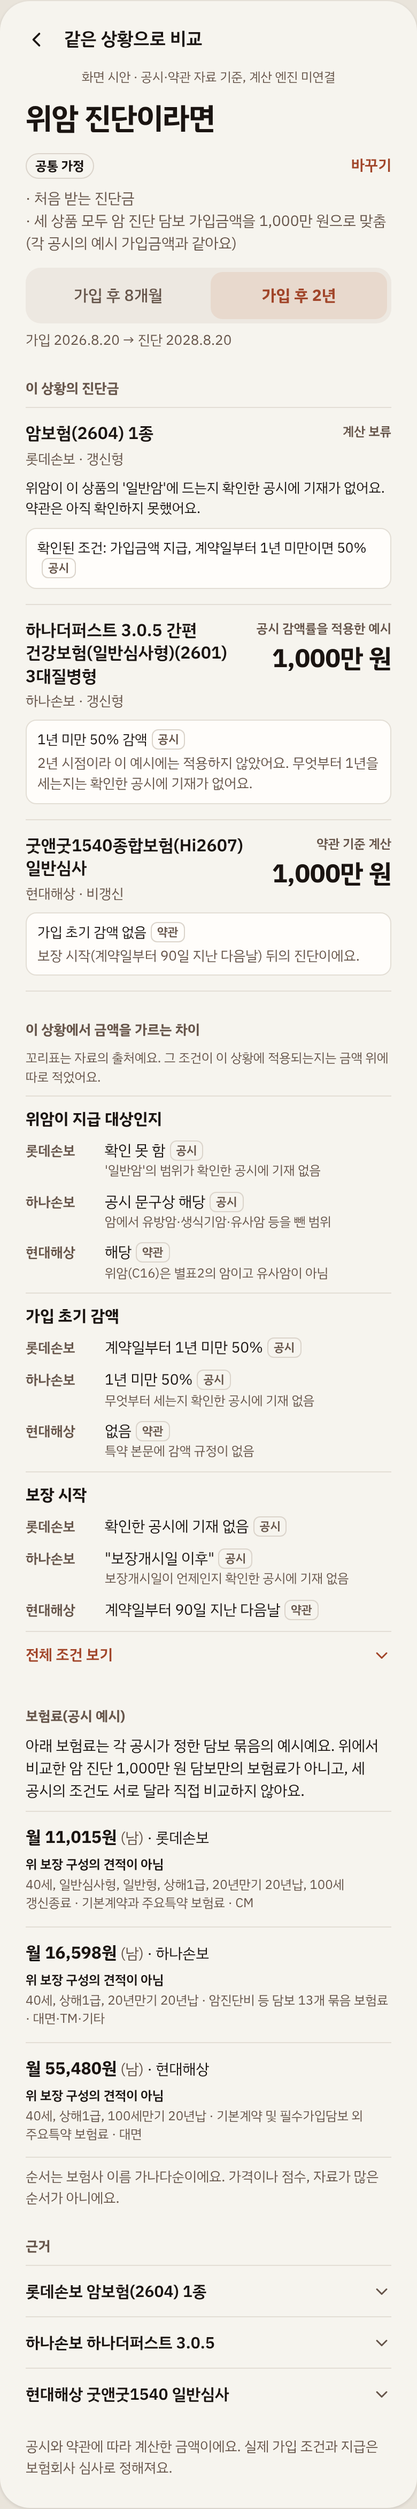
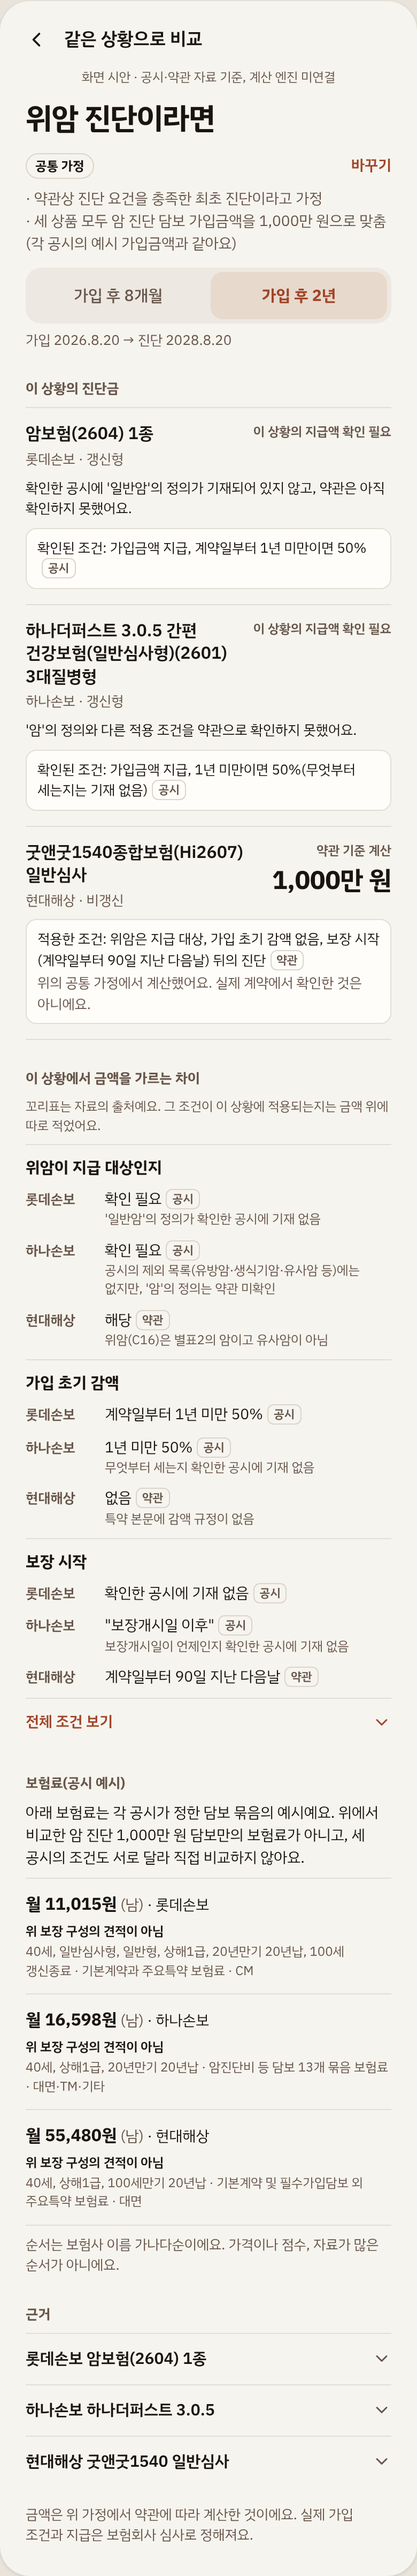
토의 자료: 비교 시안 대표 결과·산술 예시 분리 후 잠정 고정(23차), 미확인 축소 흐름 제안 기록
- 큰 금액 자리는 명시한 가정에 따른 현대해상 약관 기준 계산만, 하나·롯데는 '이 상황의 지급액 확인 필요'
- 하나 500만 원은 근거 속 산술 예시로 이동, 공통 가정에 '약관상 진단 요건을 충족한 최초 진단' 명시
- 검증 42항목 통과
- 공개지식 토의초안 §12: 정보 공백 발견→외부 문의→회신 확보→검수→반영(토의상 제안, 미확정)

Claude-Session: https://claude.ai/code/session_01LaYnzNyNWYGvf2wDAbtvPd

diff --git a/docs/blueprint/proposals/시안_비교/비교_시안.html b/docs/blueprint/proposals/시안_비교/비교_시안.html
@@ -75,7 +75,7 @@
 </head>
 <body>
 <div class="wrap">
-  <p class="page-note"><b>화면 시안입니다.</b> 상품, 담보, 조건, 보험료는 2026-10-10에 받은 손해보험협회 비교공시에서 옮겼습니다. 현대해상은 약관도 함께 확인했습니다. 금액은 손으로 계산했고 계산 엔진에는 연결하지 않았습니다. 상품마다 금액이 어떤 근거로 나왔는지 금액 위에 적었습니다. 시안에서 연결하지 않은 버튼을 누르면 시안이라는 안내가 나옵니다.</p>
+  <p class="page-note"><b>화면 시안입니다.</b> 상품, 담보, 조건, 보험료는 2026-10-10에 받은 손해보험협회 비교공시에서 옮겼습니다. 현대해상은 약관도 함께 확인했습니다. 금액은 손으로 계산했고 계산 엔진에는 연결하지 않았습니다. 큰 금액 자리에는 명시한 가정에서 약관으로 계산한 결과만 올렸고, 공시 문구로 한 산술 예시는 근거 안에 두었습니다. 시안에서 연결하지 않은 버튼을 누르면 시안이라는 안내가 나옵니다.</p>
   <div class="row">
     <div class="screen" id="screen-cmp" data-testid="screen-cmp">
       <div class="top">
@@ -89,7 +89,7 @@
       <div class="assume" data-testid="common">
         <div class="assume-head"><span class="pill">공통 가정</span><button class="link-btn" data-proto>바꾸기</button></div>
         <ul>
-          <li>처음 받는 진단금</li>
+          <li data-testid="common-dx">약관상 진단 요건을 충족한 최초 진단이라고 가정</li>
           <li data-testid="common-amount">세 상품 모두 암 진단 담보 가입금액을 1,000만 원으로 맞춤(각 공시의 예시 가입금액과 같아요)</li>
         </ul>
       </div>
@@ -105,24 +105,25 @@
         <div class="prod" data-prod="lotte">
           <div class="prod-head">
             <div><div class="pname">암보험(2604) 1종</div><div class="pco">롯데손보 · 갱신형</div></div>
-            <div class="pamt"><div class="kind" data-testid="kind-lotte">계산 보류</div></div>
+            <div class="pamt"><div class="kind" data-testid="kind-lotte">이 상황의 지급액 확인 필요</div></div>
           </div>
-          <div class="reason" data-testid="reason-lotte">위암이 이 상품의 '일반암'에 드는지 확인한 공시에 기재가 없어요. 약관은 아직 확인하지 못했어요.</div>
+          <div class="reason" data-testid="reason-lotte">확인한 공시에 '일반암'의 정의가 기재되어 있지 않고, 약관은 아직 확인하지 못했어요.</div>
           <div class="rule">확인된 조건: 가입금액 지급, 계약일부터 1년 미만이면 50%<span class="tag">공시</span></div>
         </div>
         <div class="prod" data-prod="hana">
           <div class="prod-head">
             <div><div class="pname">하나더퍼스트 3.0.5 간편 건강보험(일반심사형)(2601) 3대질병형</div><div class="pco">하나손보 · 갱신형</div></div>
-            <div class="pamt"><div class="kind" data-testid="kind-hana">공시 감액률을 적용한 예시</div><div class="v" data-testid="amt-hana">500만 원</div></div>
+            <div class="pamt"><div class="kind" data-testid="kind-hana">이 상황의 지급액 확인 필요</div></div>
           </div>
-          <div class="rule" data-testid="rule-hana">1년 미만 50% 감액<span class="tag">공시</span><span class="apply" data-testid="apply-hana">8개월 시점이라 이 예시에 적용했어요. 무엇부터 1년을 세는지는 확인한 공시에 기재가 없어요.</span></div>
+          <div class="reason" data-testid="reason-hana">'암'의 정의와 다른 적용 조건을 약관으로 확인하지 못했어요.</div>
+          <div class="rule" data-testid="rule-hana">확인된 조건: 가입금액 지급, 1년 미만이면 50%(무엇부터 세는지는 기재 없음)<span class="tag">공시</span></div>
         </div>
         <div class="prod" data-prod="hd">
           <div class="prod-head">
             <div><div class="pname">굿앤굿1540종합보험(Hi2607) 일반심사</div><div class="pco">현대해상 · 비갱신</div></div>
             <div class="pamt"><div class="kind" data-testid="kind-hd">약관 기준 계산</div><div class="v" data-testid="amt-hd">1,000만 원</div></div>
           </div>
-          <div class="rule" data-testid="rule-hd">가입 초기 감액 없음<span class="tag">약관</span><span class="apply" data-testid="apply-hd">보장 시작(계약일부터 90일 지난 다음날) 뒤의 진단이에요.</span></div>
+          <div class="rule" data-testid="rule-hd">적용한 조건: 위암은 지급 대상, 가입 초기 감액 없음, 보장 시작(계약일부터 90일 지난 다음날) 뒤의 진단<span class="tag">약관</span><span class="apply" data-testid="apply-hd">위의 공통 가정에서 계산했어요. 실제 계약에서 확인한 것은 아니에요.</span></div>
         </div>
       </div>
 
@@ -131,8 +132,8 @@
       <div class="legend" data-testid="legend">꼬리표는 자료의 출처예요. 그 조건이 이 상황에 적용되는지는 금액 위에 따로 적었어요.</div>
       <div data-testid="diff">
         <div class="item" data-item="target"><h3>위암이 지급 대상인지</h3>
-          <div class="cell"><span class="co">롯데손보</span><span class="val">확인 못 함<span class="tag">공시</span><small>'일반암'의 범위가 확인한 공시에 기재 없음</small></span></div>
-          <div class="cell"><span class="co">하나손보</span><span class="val">공시 문구상 해당<span class="tag">공시</span><small>암에서 유방암·생식기암·유사암 등을 뺀 범위</small></span></div>
+          <div class="cell"><span class="co">롯데손보</span><span class="val">확인 필요<span class="tag">공시</span><small>'일반암'의 정의가 확인한 공시에 기재 없음</small></span></div>
+          <div class="cell"><span class="co">하나손보</span><span class="val">확인 필요<span class="tag">공시</span><small>공시의 제외 목록(유방암·생식기암·유사암 등)에는 없지만, '암'의 정의는 약관 미확인</small></span></div>
           <div class="cell"><span class="co">현대해상</span><span class="val">해당<span class="tag">약관</span><small>위암(C16)은 별표2의 암이고 유사암이 아님</small></span></div>
         </div>
         <div class="item" data-item="reduce"><h3>가입 초기 감액</h3>
@@ -187,26 +188,28 @@
         <button class="fold" aria-expanded="false" data-fold="d-lotte">롯데손보 암보험(2604) 1종<svg width="18" height="18" viewBox="0 0 24 24" fill="none" stroke="#66554A" stroke-width="2" stroke-linecap="round" stroke-linejoin="round" aria-hidden="true"><path d="M6 9l6 6 6-6"/></svg></button>
         <dl class="detail" id="d-lotte" hidden>
           <dt>공시 담보</dt><dd>일반암진단비(간편맞춤형Ⅱ)(갱신형): 보험가입금액(1천만원)(단, 계약일로부터 경과기간 1년 미만시 보험가입금액의 50%) · 지급사유 "일반암으로 진단확정된 경우"</dd>
-          <dt>계산을 보류한 이유</dt><dd>지급사유의 '일반암'이 어떤 암을 말하는지 확인한 공시에 기재가 없어요. 그래서 위암이 지급 대상인지 판단할 수 없었어요.</dd>
+          <dt>지급액을 확인 필요로 둔 이유</dt><dd>지급사유의 '일반암'이 어떤 암을 말하는지 확인한 공시에 기재가 없어요. 그래서 위암이 지급 대상인지 판단할 수 없었어요.</dd>
           <dt>확인하지 못한 것</dt><dd>'일반암'의 범위, 보장 시작일, 지급 횟수. 약관을 확보하지 못했어요. 공시의 보험료 조건은 "일반심사형"인데 담보명에는 "간편맞춤형Ⅱ"가 붙어 있어요.</dd>
           <dt>출처</dt><dd>손해보험협회 비교공시 PB22, 공시행 N03PB223229, 요약서 SEQ 91797, 2026-10-10 수집</dd>
         </dl>
         <button class="fold" aria-expanded="false" data-fold="d-hana">하나손보 하나더퍼스트 3.0.5<svg width="18" height="18" viewBox="0 0 24 24" fill="none" stroke="#66554A" stroke-width="2" stroke-linecap="round" stroke-linejoin="round" aria-hidden="true"><path d="M6 9l6 6 6-6"/></svg></button>
         <dl class="detail" id="d-hana" hidden>
           <dt>공시 담보</dt><dd>암진단비(유방암및생식기암제외)(갱신형): 1천만원(최초 1회한, 1년미만 50%) · 지급사유 "보장개시일 이후에 암(유방암및생식기암제외)로 진단확정된 경우. 유방및생식기암, 기타피부암, 갑상선암, 제자리암, 경계성종양은 보장하지않음"</dd>
-          <dt>예시로 표시한 이유</dt><dd>공시 문구로는 위암이 지급 대상에 들어요. 하지만 '암'의 정의, 보장개시일, 1년을 세는 기준일은 약관을 확보하지 못해 확인하지 않았어요. 그래서 공시의 '1년미만 50%'를 산술로 적용한 예시로 표시했어요.</dd>
+          <dt>지급액을 확인 필요로 둔 이유</dt><dd>공시의 제외 목록에 위암이 없다는 것만으로는 지급 대상이라고 확인할 수 없어요. '암'의 정의, 보장개시일, 1년을 세는 기준일 같은 적용 조건은 약관을 확보하지 못해 확인하지 않았어요.</dd>
+          <dt>산술 예시</dt><dd data-testid="arith-hana">가입금액 1,000만 원에 공시된 감액률 50%를 적용하면 500만 원입니다. 이 위암 상황에 해당 규칙이 적용되는지는 아직 확인하지 못했습니다.</dd>
           <dt>출처</dt><dd>손해보험협회 비교공시 PB15, 공시행 N17PB150844, 요약서 SEQ 91339, 2026-10-10 수집</dd>
         </dl>
         <button class="fold" aria-expanded="false" data-fold="d-hd">현대해상 굿앤굿1540 일반심사<svg width="18" height="18" viewBox="0 0 24 24" fill="none" stroke="#66554A" stroke-width="2" stroke-linecap="round" stroke-linejoin="round" aria-hidden="true"><path d="M6 9l6 6 6-6"/></svg></button>
         <dl class="detail" id="d-hd" hidden>
           <dt>공시 담보</dt><dd>암진단II(유사암제외) 1000만원 · 지급사유 "보장개시일 이후 암(유사암 제외)으로 진단확정된 경우"</dd>
+          <dt>계산 전제(가정)</dt><dd>약관상 진단 요건을 충족한 최초 진단, 공통 가정의 가입금액 1,000만 원. 실제 계약에서 확인한 사실이 아니에요.</dd>
           <dt>약관으로 확인한 적용</dt><dd>지급금액: 2-5 암진단Ⅱ(유사암제외)보장 특별약관 제1조. 최초 1회에 한해 "이 특약의 보험가입금액"을 지급하고, 금액을 줄이는 문구가 없어요(약관 305쪽).<br>지급 대상: 제2조①의 '암'은 별표2 악성신생물 분류표의 질병이고, 소화기관(C15~C26)에 위암(C16)이 들어 있어요(1223쪽). 유사암(C44·C73·제자리암·경계성종양)에는 해당하지 않아요.<br>보장 시작: 제3조①, 계약일부터 그 날을 포함해 90일이 지난 다음날.<br>감액: 특약 본문(305~306쪽)과 보통약관(125~154쪽)에 진단금을 줄이는 규정이 없어요. 상품안내 지급제한표(117쪽)에서도 이 특약의 '1년미만 보험금 감액여부'는 '-'예요. 같은 표의 다른 담보에는 50% 같은 비율이 적혀 있어요.</dd>
-          <dt>확인하지 못한 것</dt><dd>진단이 병리 검사 같은 진단확정 요건(제2조⑦)을 갖췄는지, 계약 전 알릴 의무 같은 실제 계약의 사정</dd>
+          <dt>가정으로 둔 것</dt><dd>진단이 병리 검사 같은 진단확정 요건(제2조⑦)을 갖췄는지, 계약 전 알릴 의무 같은 실제 계약의 사정은 확인하지 않고 가정으로 두었어요.</dd>
           <dt>출처</dt><dd>비교공시 PB14, 공시행 N09PB144456, 2026-10-10 수집 · 약관 sha256 9401e98e…, 사업방법서 sha256 272917da…</dd>
         </dl>
       </div>
 
-      <div class="general">공시와 약관에 따라 계산한 금액이에요. 실제 가입 조건과 지급은 보험회사 심사로 정해져요.</div>
+      <div class="general">금액은 위 가정에서 약관에 따라 계산한 것이에요. 실제 가입 조건과 지급은 보험회사 심사로 정해져요.</div>
       <div class="toast" role="status" aria-live="polite" hidden data-toast></div>
     </div>
   </div>
@@ -214,18 +217,14 @@
 <script>
 (function () {
   var data = {
-    '8m': { dates: '가입 2026.8.20 → 진단 2027.4.20', hana: '500만 원',
-            hanaApply: '8개월 시점이라 이 예시에 적용했어요. 무엇부터 1년을 세는지는 확인한 공시에 기재가 없어요.' },
-    '2y': { dates: '가입 2026.8.20 → 진단 2028.8.20', hana: '1,000만 원',
-            hanaApply: '2년 시점이라 이 예시에는 적용하지 않았어요. 무엇부터 1년을 세는지는 확인한 공시에 기재가 없어요.' }
+    '8m': { dates: '가입 2026.8.20 → 진단 2027.4.20' },
+    '2y': { dates: '가입 2026.8.20 → 진단 2028.8.20' }
   };
   var segs = document.querySelectorAll('[data-elapsed]');
   function render(k) {
     var d = data[k];
     segs.forEach(function (b) { b.setAttribute('aria-pressed', String(b.getAttribute('data-elapsed') === k)); });
     document.getElementById('dates').textContent = d.dates;
-    document.querySelector('[data-testid="amt-hana"]').textContent = d.hana;
-    document.querySelector('[data-testid="apply-hana"]').textContent = d.hanaApply;
   }
   segs.forEach(function (b) { b.addEventListener('click', function () { render(b.getAttribute('data-elapsed')); }); });
   document.querySelectorAll('[data-fold]').forEach(function (btn) {

diff --git a/docs/blueprint/proposals/시안_비교/검증/run.js b/docs/blueprint/proposals/시안_비교/검증/run.js
@@ -41,12 +41,14 @@ function check(name, cond, detail) { log.push((cond ? 'PASS ' : 'FAIL ') + name 
   // 상품별 금액 또는 이유가 같은 자리(오른쪽 위)에 있는지
   const pos = await page.evaluate(() => [...document.querySelectorAll('.prod')].map(p => { const r = p.getBoundingClientRect(), a = p.querySelector('.pamt').getBoundingClientRect(); return [Math.round(a.right - r.right), Math.round(a.top - r.top)]; }));
   check('세 상품 모두 금액·이유가 같은 자리(오른쪽 위)', pos.length === 3 && pos.every(p => p[0] === pos[0][0] && p[1] === pos[0][1]), JSON.stringify(pos));
-  check('금액 위 근거 종류: 보류 / 공시 감액률 예시 / 약관 기준 계산', (await txt('[data-testid="kind-lotte"]')) === '계산 보류' && (await txt('[data-testid="kind-hana"]')) === '공시 감액률을 적용한 예시' && (await txt('[data-testid="kind-hd"]')) === '약관 기준 계산');
-  check('금액: 하나 500만 원, 현대 1,000만 원, 롯데는 숫자 없음', (await txt('[data-testid="amt-hana"]')) === '500만 원' && (await txt('[data-testid="amt-hd"]')) === '1,000만 원' && (await page.locator('[data-prod="lotte"] .v').count()) === 0);
-  check('계산 보류 상품: 이유와 확인된 조건 표시', (await txt('[data-testid="reason-lotte"]')).includes('기재가 없어요') && (await page.locator('[data-prod="lotte"] .rule').innerText()).includes('확인된 조건'));
-  check('계산 보류 표시는 다른 근거 표시와 같은 색(강조색 아님)', await page.evaluate(() => { const c = s => getComputedStyle(document.querySelector(s)).color; return c('[data-testid="kind-lotte"]') === c('[data-testid="kind-hd"]') && c('[data-testid="kind-lotte"]') === 'rgb(102, 85, 74)'; }));
+  check('대표 결과: 롯데·하나는 지급액 확인 필요, 현대는 약관 기준 계산', (await txt('[data-testid="kind-lotte"]')) === '이 상황의 지급액 확인 필요' && (await txt('[data-testid="kind-hana"]')) === '이 상황의 지급액 확인 필요' && (await txt('[data-testid="kind-hd"]')) === '약관 기준 계산');
+  check('큰 금액 자리에는 현대해상 1,000만 원만', (await page.locator('[data-prod] .pamt .v').count()) === 1 && (await txt('[data-testid="amt-hd"]')) === '1,000만 원');
+  check('하나 500만 원은 첫 화면 어디에도 없음(근거 안 산술 예시로만)', !(await page.locator('#screen-cmp').innerText()).includes('500만 원'));
+  check('확인 필요 상품: 이유와 확인된 공시 조건', (await txt('[data-testid="reason-lotte"]')).includes('정의가 기재되어 있지 않고') && (await txt('[data-testid="reason-hana"]')).includes('약관으로 확인하지 못했어요') && (await page.locator('[data-prod="lotte"] .rule').innerText()).includes('확인된 조건') && (await txt('[data-testid="rule-hana"]')).includes('1년 미만이면 50%'));
+  check('확인 필요 표시는 계산 표시와 같은 색(강조색 아님)', await page.evaluate(() => { const c = s => getComputedStyle(document.querySelector(s)).color; return c('[data-testid="kind-lotte"]') === c('[data-testid="kind-hd"]') && c('[data-testid="kind-hana"]') === c('[data-testid="kind-hd"]') && c('[data-testid="kind-lotte"]') === 'rgb(102, 85, 74)'; }));
+  check('공통 가정: 약관상 진단 요건을 충족한 최초 진단', (await txt('[data-testid="common-dx"]')) === '약관상 진단 요건을 충족한 최초 진단이라고 가정');
+  check('현대 계산에 적용 조건과 "실제 계약에서 확인한 것은 아님"', (await txt('[data-testid="rule-hd"]')).startsWith('적용한 조건') && (await txt('[data-testid="apply-hd"]')).includes('실제 계약에서 확인한 것은 아니에요'));
   check('공통 가정에 가입금액 1,000만 원 맞춤 명시', (await txt('[data-testid="common-amount"]')).includes('가입금액을 1,000만 원으로 맞춤'));
-  check('결과를 바꾸는 조건이 금액 바로 아래', (await vis('[data-testid="rule-hana"]')) && (await vis('[data-testid="rule-hd"]')));
 
   const all = await page.locator('#screen-cmp').innerText();
   check('"최저가"·"추천" 같은 표시 없음', !/최저가|가장 싼|저렴|추천|1위/.test(all));
@@ -68,14 +70,13 @@ function check(name, cond, detail) { log.push((cond ? 'PASS ' : 'FAIL ') + name 
   await page.click('[data-elapsed="2y"]');
   check('2년: 버튼 상태', (await page.getAttribute('[data-elapsed="2y"]', 'aria-pressed')) === 'true' && (await page.getAttribute('[data-elapsed="8m"]', 'aria-pressed')) === 'false');
   check('2년: 진단일 2028.8.20', (await txt('#dates')).includes('2028.8.20'));
-  check('2년: 하나손보 1,000만 원', (await txt('[data-testid="amt-hana"]')) === '1,000만 원');
-  check('2년: 감액 규칙은 남고 적용만 바뀜', (await vis('[data-testid="rule-hana"]')) && (await txt('[data-testid="rule-hana"]')).startsWith('1년 미만 50% 감액') && (await txt('[data-testid="apply-hana"]')).includes('적용하지 않았어요'));
-  check('2년: 근거 종류 표시 그대로', (await txt('[data-testid="kind-hana"]')) === '공시 감액률을 적용한 예시' && (await txt('[data-testid="kind-lotte"]')) === '계산 보류');
+  check('2년: 결과 표시는 그대로(확인 필요 상품에 금액이 생기지 않음)', (await page.locator('[data-prod] .pamt .v').count()) === 1 && (await txt('[data-testid="kind-hana"]')) === '이 상황의 지급액 확인 필요');
+  check('2년: 하나 감액 조건은 그대로 보임', (await vis('[data-testid="rule-hana"]')) && (await txt('[data-testid="rule-hana"]')).includes('1년 미만이면 50%'));
   check('2년: 현대해상 그대로 1,000만 원', (await txt('[data-testid="amt-hd"]')) === '1,000만 원');
   await layout('2년');
   await shot('02_비교_2년.png');
   await page.click('[data-elapsed="8m"]');
-  check('8개월로 되돌림: 500만 원, 적용 문구 복귀', (await txt('[data-testid="amt-hana"]')) === '500만 원' && (await txt('[data-testid="apply-hana"]')).includes('적용했어요') && !(await txt('[data-testid="apply-hana"]')).includes('않았어요'));
+  check('8개월로 되돌림: 진단일 복귀', (await txt('#dates')).includes('2027.4.20'));
 
   // 근거 펼침
   for (const id of ['d-more', 'd-lotte', 'd-hana', 'd-hd']) {
@@ -83,6 +84,8 @@ function check(name, cond, detail) { log.push((cond ? 'PASS ' : 'FAIL ') + name 
     check(id + ' 펼침', (await vis('#' + id)) && (await page.getAttribute('[data-fold="' + id + '"]', 'aria-expanded')) === 'true');
   }
   check('전체 조건: 갱신·따로 보는 암·지급 횟수', (await page.locator('#d-more [data-item]').count()) === 3);
+  check('하나 근거 속 산술 예시 문장', (await txt('[data-testid="arith-hana"]')) === '가입금액 1,000만 원에 공시된 감액률 50%를 적용하면 500만 원입니다. 이 위암 상황에 해당 규칙이 적용되는지는 아직 확인하지 못했습니다.');
+  check('현대 근거에 계산 전제(가정)', (await page.locator('#d-hd dt', { hasText: '계산 전제(가정)' }).count()) === 1);
   check('근거마다 출처 있음', (await page.locator('.detail dt', { hasText: '출처' }).count()) === 3);
   await layout('근거 펼침');
   await page.click('[data-fold="d-lotte"]'); await page.click('[data-fold="d-hana"]');
@@ -93,11 +96,11 @@ function check(name, cond, detail) { log.push((cond ? 'PASS ' : 'FAIL ') + name 
   // 시안 전용 버튼
   const protos = await page.locator('[data-proto]').all(); let ok = 0;
   for (const el of protos) {
-    const before = await page.evaluate(() => [location.href, document.querySelector('[data-testid="amt-hana"]').textContent]);
+    const before = await page.evaluate(() => [location.href, document.getElementById('dates').textContent]);
     await el.click();
     const t = page.locator('[data-toast]');
     const shown = (await t.isVisible()) && (await t.innerText()) === '화면 시안이라 아직 연결되지 않았어요.';
-    const after = await page.evaluate(() => [location.href, document.querySelector('[data-testid="amt-hana"]').textContent]);
+    const after = await page.evaluate(() => [location.href, document.getElementById('dates').textContent]);
     if (shown && JSON.stringify(before) === JSON.stringify(after)) ok++;
   }
   check('시안 전용 버튼 ' + protos.length + '개: 누르면 시안 안내, 상태·주소 변화 없음', ok === protos.length, ok + '/' + protos.length);

diff --git a/docs/blueprint/proposals/공개지식_모델_토의초안.md b/docs/blueprint/proposals/공개지식_모델_토의초안.md
@@ -457,3 +457,68 @@ flowchart LR
 - 공개 자료 조사와 원본 영속 보존(R2) 권한은 한 승인으로 묶지 않는다.
 - 결과: [H 그룹 조사](../../research/2026-10-10_source_survey/H_1540_사업방법서.md), [가입 구성 검증 사례](가입구성_사례_굿앤굿1540.md) 12차 판.
 - 그다음 공개 지식 모델 1차 토의를 정리하고, 개인 계약이 이 구성 중 무엇을 실제로 선택·적용받았는지 표현하는 모델(묶음 2)로 넘어간다.
+
+## 12. 23차 토의: 미확인을 줄이는 흐름 (토의상 제안·사용자, 미확정)
+
+### 12.1 토의상 제안(사용자)
+
+온전은 "미확인을 어떻게 표시할까"에서 멈추지 않고, 미확인을 줄여 나가는 시스템이어야 한다. 구조에 **정보 공백 발견 → 외부 문의 → 회신 확보 → 검수 → 반영**을 추가한다.
+
+1. **빠진 정보를 특정한다.** "이 상품 설명해 주세요"처럼 묻지 않는다. 상품, 판매 시기(판), 특약을 지정하고 다음처럼 묻는다. "이 판의 암 정의에 위암 C16이 포함되는지, 근거 조항은 어디인지."
+2. **AI가 문의를 작성해 공식 창구로 보낸다.**
+   - 확인할 수 있는 창구(보험사 공시 담당, 상품 담당 등)를 관리한다.
+   - 질문과 관련 자료를 한데 묶어 보낸다.
+   - 초기에는 사람이 발송 내용을 검토한다. 반복되는 문의는 정해진 범위 안에서 자동화할 수 있다.
+3. **회신과 첨부자료를 근거로 보존한다.**
+   - 누가, 언제, 어떤 상품·판에 대해 답했는지 남긴다.
+   - 그 답으로 정확히 무엇을 확인했는지 남긴다.
+   - 가능하면 답변뿐 아니라 약관·사업방법서 같은 근거 문서도 요청한다.
+4. **검수한 뒤 지식과 화면을 갱신한다.**
+   - 답변이 질문에 충분히 답하는지, 기존 약관과 충돌하지 않는지 확인한다.
+   - 충돌하면 한쪽으로 덮어쓰지 않고 다시 문의한다.
+
+**구분해야 할 것**
+- 담당자의 이메일 답변은 약관 변경도, 특정인에 대한 지급 보증도 아니다. **'공식 회신으로 확인한 상품 설명'과 '개별 계약의 실제 심사 결과'는 따로 다룬다.**
+- **공개 상품 문의**는 공통 지식 쪽에서 한 번 해결해 여러 사용자가 다시 쓴다.
+- **개인 계약 문의**는 비공개 개인 영역에서 처리한다. 사용자 동의를 받고 필요한 정보만 보내는 별도 경로를 둔다.
+- 화면은 "모릅니다"에서 끝나지 않고 **"공개 자료에서 확인되지 않아 보험사에 확인 중입니다"**로 이어진다. 단, 이 문구는 실제로 문의를 보냈을 때만 쓴다.
+
+### 12.2 검토 의견(구현자)
+
+**1. '미확보'와 '공개 자료에 없음'은 다른 공백이다.**
+- 비교 시안에서 하나손보와 롯데손보의 공백은 아직 **약관 원문을 받지 않은 것**이다. 공개 자료에 정말 없는 것으로 확인된 게 아니다.
+- 그래서 문의보다 먼저 공개 원문 수집(보험사 상품공시실의 약관·사업방법서)이 와야 한다고 본다.
+- 순서로는 이렇다.
+  1. 공개 원문을 수집한다.
+  2. 그래도 비어 있거나 원문끼리 충돌하면 문의한다.
+- 이렇게 하면 문의 수가 줄고, 답변도 원문 조항을 가리키게 하기 쉽다.
+
+**2. 공백 항목 하나의 상태(초안).**
+- 아직 찾지 않음
+- 공개 원문에서 찾는 중
+- 공개 자료에서 확인되지 않음(찾은 범위를 기록)
+- 문의 발송됨(발송일, 창구)
+- 회신 받음·검수 중
+- 회신으로 확인(범위 한정)
+- 충돌·재문의
+
+화면 문구는 이 상태에서만 만든다. 예를 들어 "확인 중"은 '문의 발송됨' 이후에만 쓴다.
+
+**3. 회신을 근거로 남길 때의 형태(초안).**
+- 질문 원문, 지정한 상품·판·특약
+- 답한 창구와 담당 부서, 받은 날
+- 답변 원문과 첨부 문서의 해시
+- 그 답이 확인한 범위: 무엇을 확인했고, 무엇은 확인하지 않았는지
+- 근거 등급: 기존 약관 원문과 같은 등급으로 둘지, '공식 회신'이라는 별도 등급으로 둘지는 토의가 필요하다. 지금 생각으로는, 회신이 약관 조항을 가리키면 그 조항 원문을 확보해 약관 근거로 연결한다. 회신만 있으면 '공식 회신' 등급으로 둔다.
+
+**4. 외부로 보내는 일이라 정해야 할 것.**
+- 보내는 사람을 어떻게 밝힐지(온전 명의로, AI가 작성했음을 표시할지)
+- 고객을 가장하지 않을 것
+- 발송 승인은 누가 할지
+- 반복 문의 자동화의 범위와 중단 조건
+
+이번 토의 범위에서는 실제 문의를 보내지 않았다. 창구 목록도 만들지 않았다. 확인하지 않은 연락처를 적어 두지 않기 위해서다.
+
+**5. 비교 시안과의 관계.**
+- 지금 시안의 "이 상황의 지급액 확인 필요"와 "약관은 아직 확인하지 못했어요"는 '아직 찾지 않음' 상태와 맞다. 그래서 그대로 둔다.
+- "보험사에 확인 중" 문구는 넣지 않았다. 실제 문의가 없기 때문이다.

diff --git a/docs/blueprint/proposals/시안_비교/README.md b/docs/blueprint/proposals/시안_비교/README.md
@@ -1,11 +1,11 @@
-# 같은 상황으로 비교: 화면 시안 (21~22차, 토의 자료)
+# 같은 상황으로 비교: 화면 시안 (21~23차, 23차 판으로 잠정 고정, 토의 자료)
 
 > 이 폴더는 **토의 자료**입니다. 설계 결정이 아니고, 구현 범위나 계약 문서에 반영하지 않았습니다.
 > 표기: **진행 지시(사용자)** · **토의상 제안(사용자)** · **검토 의견(구현자)**
 
 - `비교_시안.html`: 단독으로 여는 화면 시안(390px 한 화면).
 - `검증/run.js`, `검증/결과.txt`: 자동 실행 검증과 그 결과.
-- `캡처/`: 기본, 가입 후 2년, 전체 조건과 현대해상 근거를 펼친 상태(22차 판).
+- `캡처/`: 기본, 가입 후 2년, 전체 조건과 현대해상 근거를 펼친 상태(23차 판).
 
 ## 1. 이번 차수에 받은 지시와 제안
 
@@ -82,6 +82,40 @@
   - "계산 보류" 글자는 다른 근거 표시와 같은 회색이고, 강조색을 쓰지 않았습니다.
   - 21차에 있던 "일반암에 든다면 500만 원"이라는 조건부 금액은 뺐습니다. 금액처럼 읽힐 수 있어서입니다. 그 대신 확인된 조건(가입금액 지급, 계약일부터 1년 미만이면 50%)만 남겼습니다.
 - "공시에 없음"은 모두 "확인한 공시에 기재 없음"으로 바꿨습니다.
+
+## 1-3. 23차: 대표 결과와 산술 예시 분리, 시안 잠정 고정
+
+**진행 지시(사용자)**
+- 하나손보의 금액은 위암 상황 비교의 대표 금액으로 놓기 어렵다. 제외 목록에 위암이 없다는 것만으로는 지급 대상이라고 확인할 수 없다. 하나와 롯데 모두 이 상황의 지급액은 미확인으로 두고, 하나의 "1년 미만 50% 감액" 공시 정보는 그대로 비교한다.
+- 하나의 500만 원을 남기려면 근거를 펼쳤을 때 이렇게 보여 준다: "가입금액 1,000만 원에 공시된 감액률 50%를 적용하면 500만 원입니다. 이 위암 상황에 해당 규칙이 적용되는지는 아직 확인하지 못했습니다."
+- 현대의 '약관 기준 계산'에도 이 시나리오의 전제를 붙인다(예: 약관상 진단 요건을 충족한 최초 진단). 그 가정이 실제 계약에서 확인됐다는 뜻으로 넘어가면 안 된다.
+- 현대: 명시한 가정에 따른 약관 기준 계산. 하나·롯데: 이 상황의 지급액 확인 필요. 함께 보여 줄 것은 확인된 조건과 근거다.
+- 이 기준만 바로잡고 비교 시안을 잠정 고정한다. 새 표시나 설명을 계속 늘리지 않는다.
+
+**반영 내용**
+- 금액 표시
+  - 큰 금액 자리에는 현대해상 1,000만 원만 남겼습니다.
+  - 하나손보와 롯데손보는 같은 자리에 "이 상황의 지급액 확인 필요"를 같은 회색 글씨로 적었습니다.
+  - 그 아래에는 각 상품의 이유와 확인된 공시 조건을 두었습니다.
+- 하나손보 500만 원
+  - 하나손보 근거 칸의 "산술 예시"에만 넣었고, 위 문장을 그대로 썼습니다.
+  - 첫 화면에는 500만 원이 나오지 않습니다. 자동 검사로 확인했습니다.
+- 공통 가정
+  - 기존 "처음 받는 진단금"을 "약관상 진단 요건을 충족한 최초 진단이라고 가정"으로 바꿨습니다.
+  - 현대해상 아래에 "위의 공통 가정에서 계산했어요. 실제 계약에서 확인한 것은 아니에요."를 적었습니다.
+  - 현대해상 근거에 "계산 전제(가정)"를 두었습니다.
+- 경과 기간 전환
+  - 이제는 진단일만 바뀝니다. 금액이 확인되지 않은 상품에 금액이 생기지 않기 때문입니다.
+  - 하나손보의 감액 조건은 두 시점 모두에서 그대로 보입니다.
+- 22차 1-2절의 "공시 감액률을 적용한 예시" 등급과, 하나·롯데를 가른 기준은 이번 차수로 대체되었습니다.
+
+**검증**
+- 42개 항목을 확인했고 실패는 0건입니다. 결과는 `검증/결과.txt`에 있습니다.
+- 사용자 시험은 하지 않았습니다.
+
+**잠정 고정.** 이 판으로 비교 시안을 멈춥니다. 표시나 설명은 더 늘리지 않았습니다.
+
+**같은 차수에 받은 제안.** 미확인을 줄이는 흐름(정보 공백 발견 → 외부 문의 → 회신 확보 → 검수 → 반영)은 [공개지식 모델 토의초안 §12](../공개지식_모델_토의초안.md)에 토의상 제안(사용자)으로 기록했습니다. 실제 문의를 보내지 않았으므로 화면에 "보험사에 확인 중"은 넣지 않았습니다.
 
 ## 2. 시안에 쓴 상품과 자료 (2026-10-10 수집분)
 
